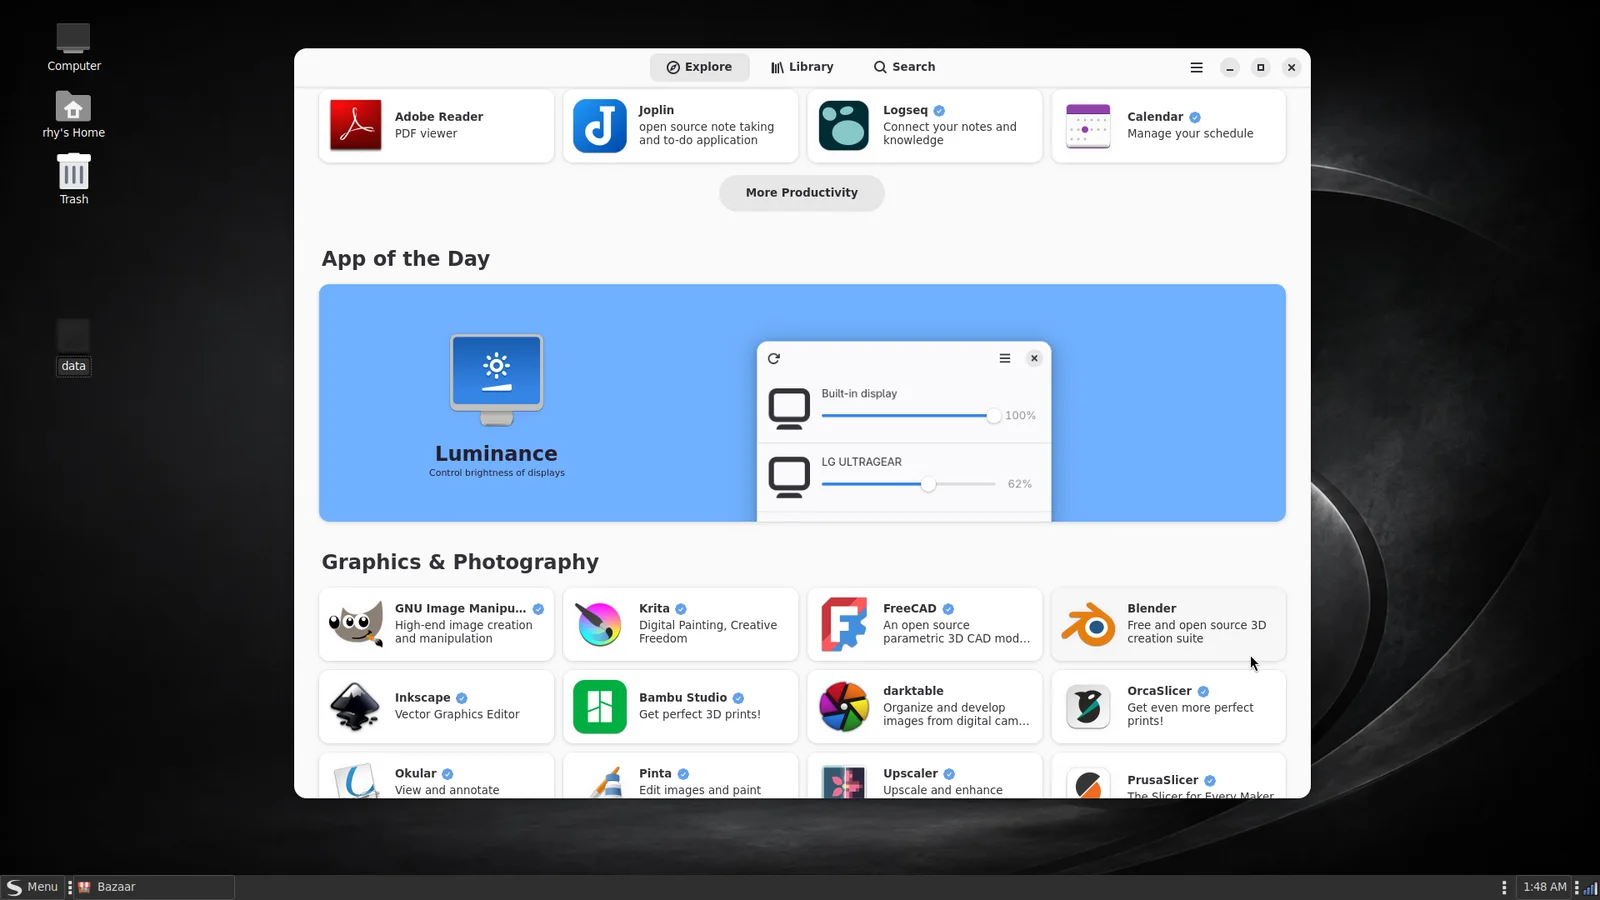
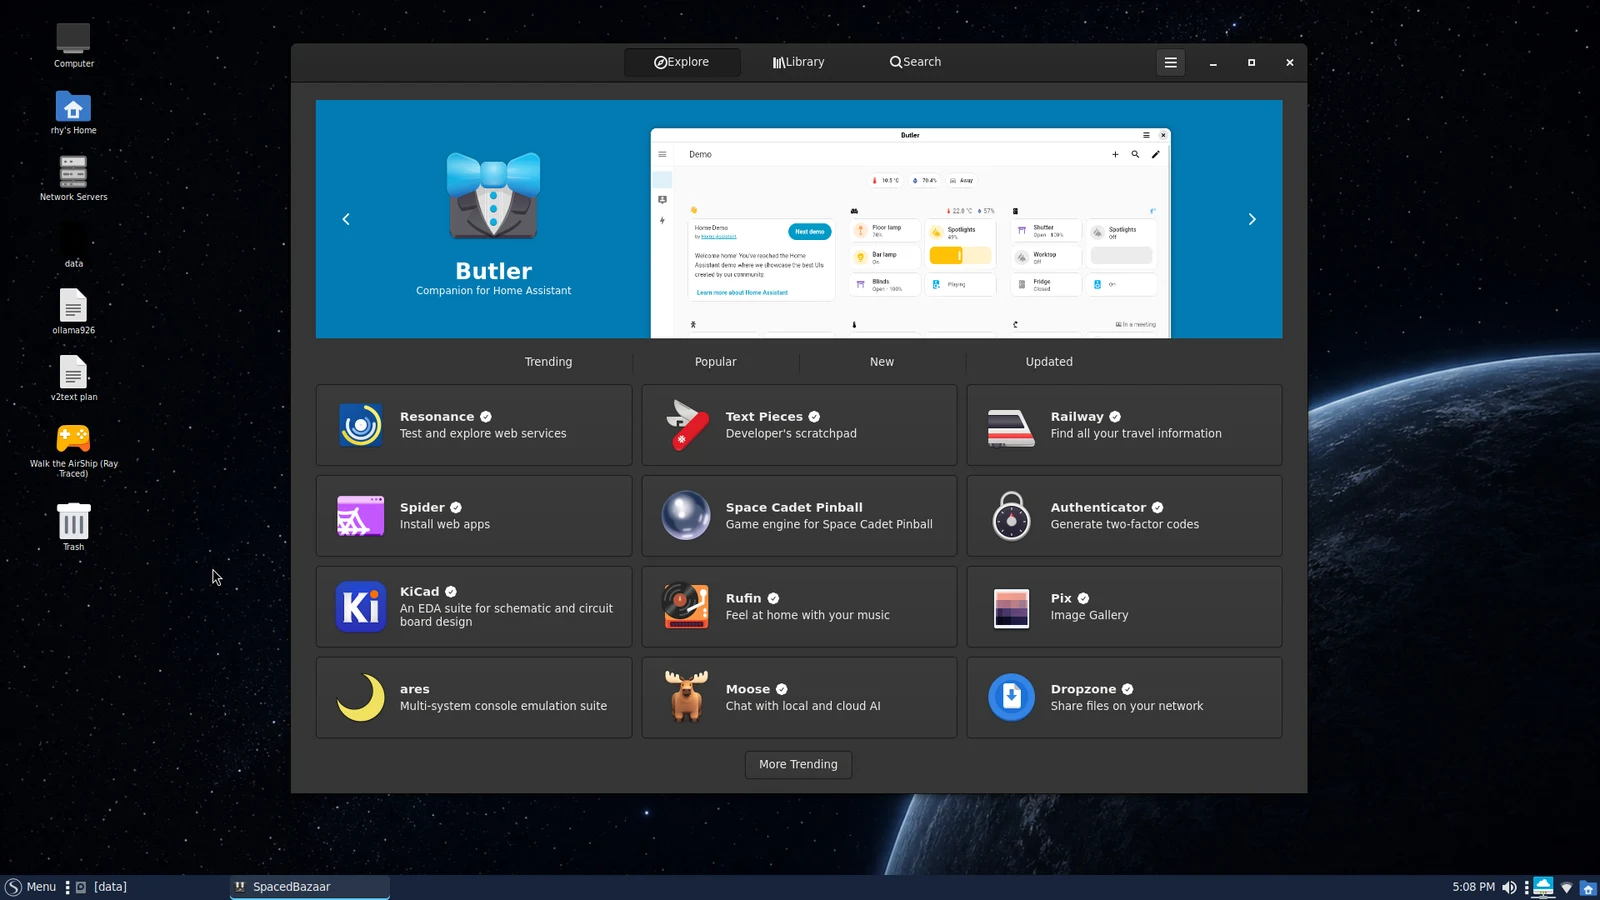
Website and README: new hero, Bazaar, Voxa and theme screenshots
Replace the hero and Spaced Bazaar screenshots with new captures, retake
the Voxa screenshot, and replace the theme-chooser image with a labelled
grid of six themes (Spaced Dark, Spaced Light, macOS, Windows 11,
Windows XP, Android): a wide one for the gallery and README, a taller
one for the Windows section.

diff --git a/website/index.html b/website/index.html
@@ -55,7 +55,7 @@
       <div class="pills"><span>Free and open source</span><span>No account</span><span>No systemd</span><span>MATE + Compiz</span><span>Devuan</span><span><a href="https://distrowatch.com/table.php?distribution=spaced">On DistroWatch</a></span></div>
     </div>
     <button class="hero-preview screenshot-button" type="button" data-image="/assets/screenshots/desktop-compiz.webp" data-title="Spaced Linux Compiz workspace cube" aria-label="Open Spaced Linux desktop screenshot">
-      <img src="/assets/screenshots/desktop-compiz.webp" alt="Spaced Linux Compiz workspace cube with a terminal">
+      <img src="/assets/screenshots/desktop-compiz.webp" alt="Spaced Linux Compiz workspace cube with a browser and terminals">
       <span><b>Compiz is the workspace</b><small>From a published Spaced desktop.</small></span>
     </button>
   </div>
@@ -100,8 +100,8 @@
     <p>Your files stay yours, updates never restart your PC without asking, and there is no advertising in the desktop.</p>
     <a href="/themes.html">See the themes →</a>
   </div>
-  <button class="screenshot-button" type="button" data-image="/assets/screenshots/desktop-themes-current.webp" data-title="Coordinated Spaced Linux themes">
-    <img src="/assets/screenshots/desktop-themes-current.webp" loading="lazy" alt="The Spaced Linux theme chooser with Windows, macOS and Spaced styles">
+  <button class="screenshot-button" type="button" data-image="/assets/screenshots/desktop-themes-six-tall.webp" data-title="Six of the eleven Spaced Linux themes">
+    <img src="/assets/screenshots/desktop-themes-six-tall.webp" loading="lazy" alt="Six Spaced Linux themes: Spaced Dark, Spaced Light, macOS, Windows 11, Windows XP and Android styles">
   </button>
 </section>
 
@@ -146,7 +146,7 @@
     </figure>
     <figure class="shot">
       <button class="screenshot-button" type="button" data-image="/assets/screenshots/desktop-compiz.webp" data-title="Compiz workspace cube">
-        <img src="/assets/screenshots/desktop-compiz.webp" loading="lazy" alt="Spaced Linux Compiz workspace cube with a terminal">
+        <img src="/assets/screenshots/desktop-compiz.webp" loading="lazy" alt="Spaced Linux Compiz workspace cube with a browser and terminals">
       </button>
       <figcaption><b>Compiz-first</b><span>Real workspace organization, visual positioning, and accessibility—not a decorative afterthought.</span></figcaption>
     </figure>
@@ -168,9 +168,9 @@
       </button>
       <figcaption><b>One coordinated identity</b><span>GTK, icons, wallpaper, panels, and Compiz presentation change together.</span></figcaption>
     </figure>
-    <figure class="shot">
-      <button class="screenshot-button" type="button" data-image="/assets/screenshots/desktop-themes-current.webp" data-title="Coordinated Spaced Linux themes">
-        <img src="/assets/screenshots/desktop-themes-current.webp" loading="lazy" alt="Spaced Linux theme chooser displayed across the Compiz workspace cube">
+    <figure class="shot shot-wide shot-natural">
+      <button class="screenshot-button" type="button" data-image="/assets/screenshots/desktop-themes-six.webp" data-title="Six of the eleven Spaced Linux themes">
+        <img src="/assets/screenshots/desktop-themes-six.webp" loading="lazy" alt="Six Spaced Linux themes: Spaced Dark, Spaced Light, macOS, Windows 11, Windows XP and Android styles">
       </button>
       <figcaption><b>A desktop with range</b><span>Coordinated themes change the complete environment while preserving familiar behavior.</span></figcaption>
     </figure>

diff --git a/website/styles.css b/website/styles.css
@@ -8,3 +8,4 @@
 .feature-shot .screenshot-button{padding:0;border:0;background:none;cursor:zoom-in;border-radius:18px;overflow:hidden;border:1px solid var(--line)}.feature-shot .screenshot-button img{width:100%;height:auto}.feature-shot p+p{margin-top:.8em}
 .feature-shot{align-items:center}.feature-shot .screenshot-button{margin:clamp(18px,3vw,40px)}.feature-shot .screenshot-button img{min-height:0;height:auto;object-fit:contain}.feature.reverse{grid-template-columns:.85fr 1.15fr}.feature+.feature{margin-top:28px}
 @media (max-width:900px){.feature.reverse{grid-template-columns:1fr}.feature.reverse>div{order:2}}
+.shot-natural img{aspect-ratio:auto;object-fit:contain}

diff --git a/README.md b/README.md
@@ -42,8 +42,8 @@
 </p>
 
 <p align="center">
-  <a href="website/assets/screenshots/desktop-hero.webp">
-    <img src="website/assets/screenshots/desktop-hero.webp" alt="Spaced Linux desktop" width="100%">
+  <a href="website/assets/screenshots/desktop-compiz.webp">
+    <img src="website/assets/screenshots/desktop-compiz.webp" alt="Spaced Linux Compiz workspace cube with a browser and terminals" width="100%">
   </a>
 </p>
 
@@ -62,7 +62,7 @@ These are real Spaced Linux desktop sessions—not wallpaper mockups. Click any 
 <table>
   <tr>
     <td width="50%" align="center">
-      <a href="website/assets/screenshots/desktop-compiz.webp"><img src="website/assets/screenshots/desktop-compiz.webp" alt="Spaced Linux Compiz workspace cube with a terminal"></a><br>
+      <a href="website/assets/screenshots/desktop-compiz.webp"><img src="website/assets/screenshots/desktop-compiz.webp" alt="Spaced Linux Compiz workspace cube with a browser and terminals"></a><br>
       <sub><strong>Compiz-first desktop</strong> — Workspaces, accessibility, motion, and organization are part of the core experience.</sub>
     </td>
     <td width="50%" align="center">
@@ -86,8 +86,8 @@ These are real Spaced Linux desktop sessions—not wallpaper mockups. Click any 
       <sub><strong>A familiar favorite</strong> — The macOS-inspired theme is one of the many coordinated Spaced Linux desktop looks.</sub>
     </td>
     <td width="50%" align="center">
-      <a href="website/assets/screenshots/desktop-ai-tools.webp"><img src="website/assets/screenshots/desktop-ai-tools.webp" alt="Spaced Linux running the Voxa local speech-to-text application"></a><br>
-      <sub><strong>Private AI</strong> — Voxa transcribes speech locally on-device, part of the flatpak-driven AI workflow.</sub>
+      <a href="website/assets/screenshots/voxa-grace.webp"><img src="website/assets/screenshots/voxa-grace.webp" alt="Voxa, the Spaced Linux voice assistant, with Grace, the default character"></a><br>
+      <sub><strong>Private AI</strong> — <a href="https://voxaai.me">Voxa</a> hears you on this computer and opens apps, takes dictation and answers questions by voice.</sub>
     </td>
   </tr>
   <tr>
@@ -128,8 +128,8 @@ These are real Spaced Linux desktop sessions—not wallpaper mockups. Click any 
 Spaced Linux combines a modern system with visual ideas from the best desktop eras. Its theme collection can evoke classic Windows, macOS, Android, Linux Mint, GeoWorks, or the distinctive monochrome Spaced identity without becoming a fragile pile of unrelated tweaks.
 
 <p align="center">
-  <a href="website/assets/screenshots/desktop-themes-current.webp">
-    <img src="website/assets/screenshots/desktop-themes-current.webp" alt="Spaced Linux coordinated theme collection" width="100%">
+  <a href="website/assets/screenshots/desktop-themes-six.webp">
+    <img src="website/assets/screenshots/desktop-themes-six.webp" alt="Six Spaced Linux themes: Spaced Dark, Spaced Light, macOS, Windows 11, Windows XP and Android styles" width="100%">
   </a>
 </p>
 
